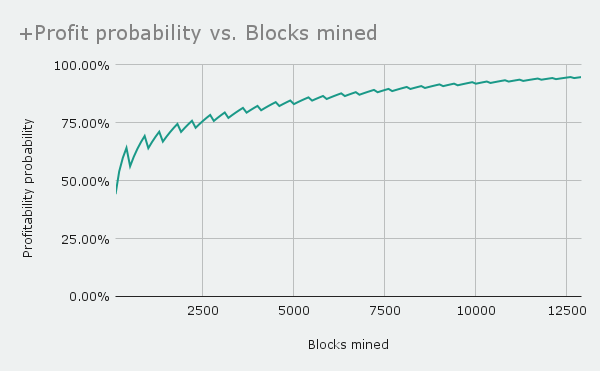
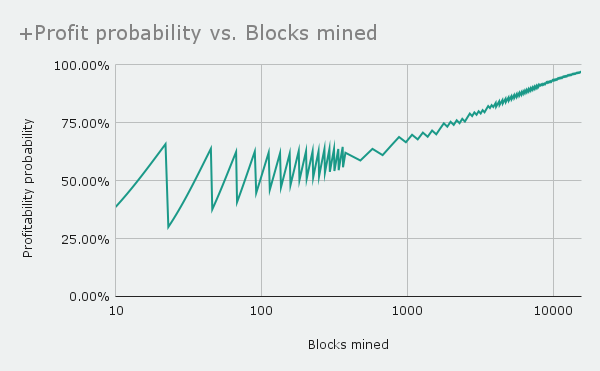
feat: poxl post update

diff --git a/blog/2022-03-14-citycoins-1/index.md b/blog/2022-03-14-citycoins-1/index.md
@@ -1,13 +1,13 @@
 ---
-draft: true
 tags: [CityCoins, PoXL, Tokenomics]
-sidebar_label: CityCoins ideas (Part 1)
+sidebar_label: PoXL ideas (Part 1)
 authors: [hank]
 hide_table_of_contents: false
-slug: citycoins-proportional-mining-rewards
+slug: poxl-proportional-mining-rewards
+date: 2022-03-15
 ---
 
-# CityCoins ideas (part 1): Proportional mining rewards
+# PoXL ideas: Proportional mining rewards
 
 In this post, I’d like to make the case for changing how mining rewards in CityCoins (or any PoXL project) are distributed. Currently, mining is a “winner takes all” model. Instead, I’m advocating for **proportional mining rewards**.
 
@@ -16,7 +16,7 @@ In this post, I’d like to make the case for changing how mining rewards in Cit
 The core thesis behind this change is:
 
 - Proportional rewards will increase miner participation
-- Increasing miner participation is good for CityCoins
+- Increasing miner participation is good for a PoXL project
 
 ## PoXL vs PoX
 
@@ -66,7 +66,7 @@ As we can see, there quickly becomes a point where your probability of ending of
 
 We can also demonstrate the need to mine for many blocks in order to end up profitable. To visualize this, we can set up a scenario with fixed variables and see how likely it is for a miner to be profitable based on the number of blocks they mined.
 
-In this chart, the miner has a 2% chance of winning, and the miner discount is 11%. Because of this discount, the expected value of mining is +11%. However, actually making a profit depends on the number of blocks they mine.
+In this chart, the miner has a 5% chance of winning, and the miner discount is 11%. Because of this discount, the expected value of mining is +11%. However, actually making a profit depends on the number of blocks they mine.
 
 ![profit vs blocks mined](./%2BProfit%20probability%20vs.%20Blocks%20mined.png)
 
